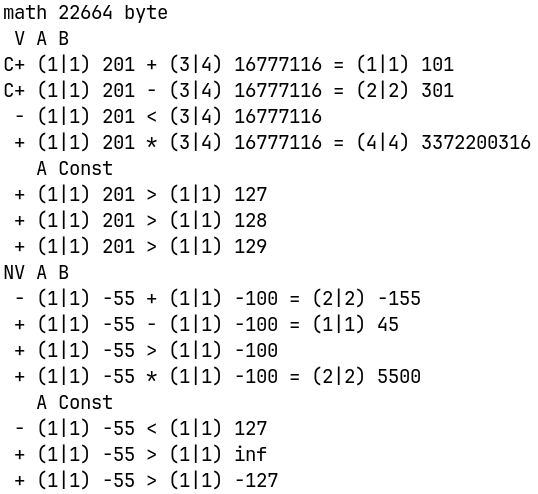
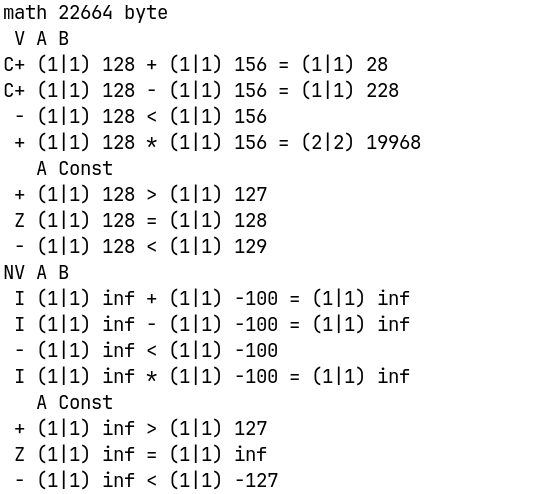
v17.5

diff --git a/math.c b/math.c
@@ -13,26 +13,25 @@ void FInit(anu x, anu y, an r, anu c, an a) { while(x--) *--r = 0; c = (c > y) ?
   while(c--) *r++ = *a++; }
 
 void FSWAP(anu l, an r, an a) { Mat.i = l; Mat.r = r; Mat.a = a; Mat.be = Mat.r + Mat.i;
-  Mat.ae = Mat.a + Mat.i; Mat.t = *Mat.a++; *Mat.r++ = Mat.i ? *Mat.ae--:Mat.t; *Mat.be-- = Mat.t;
-  Mat.i >>= 1; while(Mat.i--) { Mat.t = *Mat.a++; *Mat.r++ = *Mat.ae--; *Mat.be-- = Mat.t; } }
+  Mat.ae = Mat.a + Mat.i; Mat.j = *Mat.a++; *Mat.r++ = Mat.i ? *Mat.ae--:Mat.j; *Mat.be-- = Mat.j;
+  Mat.i >>= 1; while(Mat.i--) { Mat.j = *Mat.a++; *Mat.r++ = *Mat.ae--; *Mat.be-- = Mat.j; } }
 anu FMOV(anu l, an r, an a) { Mat.i = l; Mat.r = r; Mat.a = a; if (Mat.V) {
-    Mat.ae = Mat.a + Mat.i; Mat.na = (Mat.Nim && (*Mat.ae & 128)) ? 255:0; Mat.j = Mat.i;
-    while((Mat.x = *Mat.ae--) == Mat.na && Mat.i && !((*Mat.ae ^ Mat.na) & 128)) Mat.i--;
+    Mat.ae = Mat.a + Mat.i; Mat.nb = (*Mat.ae & 128) ? 255:0; Mat.j = Mat.i;
+    while((Mat.x = *Mat.ae--) == Mat.nb && Mat.i && !((*Mat.ae ^ Mat.nb) & 128)) Mat.i--;
     Mat.t = Mat.i; while(Mat.t-- && !*Mat.ae--) { } if (Mat.i == Mat.j) {
       if (!++Mat.t && (!Mat.x || Mat.x == 128)) { Mat.a += Mat.i; Mat.i = 0; } }
     else Mat.i += (!++Mat.t && Mat.x == 128); }
   Mat.j = Mat.i; Mat.t = Mat.i; if (r < a) do *Mat.r++ = *Mat.a++; while(Mat.j--);
   else { Mat.be = (Mat.r += Mat.i); Mat.ae = Mat.a + Mat.i;
     do *Mat.be-- = *Mat.ae--; while(Mat.j--); }
-  Mat.x = *--Mat.r; Mat.N = (Mat.Nim && (Mat.x & 128)) ? 255:0; while(Mat.i && !*--Mat.r) Mat.i--;
-  Mat.F = (Mat.i | Mat.x) ? (Mat.Nim && !Mat.i && Mat.x == 128) ? 2:0:1; return Mat.t; }
+  Mat.x = *--Mat.r; Mat.nb = (Mat.Nim && (Mat.x & 128)) ? 255:0; while(Mat.i && !*--Mat.r) Mat.i--;
+  Mat.na = (Mat.i | Mat.x) ? (Mat.Nim && !Mat.i && Mat.x == 128) ? 2:0:1; return Mat.t; }
 anu FCOLD(anu f, anu l, an r, an a) { Mat.y = FMOV(l, r, a); Mat.t = ((Mat.x = Mat.y)) ? 2:1;
   while((Mat.x >>= 1)) { Mat.t <<= 1; } Mat.r = r; Mat.e = Mat.r + Mat.y; Mat.x = --Mat.t - Mat.y;
-  Mat.y = Mat.N; if (Mat.F) { Mat.y = *Mat.e; *Mat.e = 0; Mat.y = 0; }
-  while(Mat.x--) { *++Mat.e = Mat.y; } *Mat.e = Mat.F ? Mat.y:*Mat.e;
-  if (f) { Fswap(Mat.t, Mat.r); } return Mat.t; }
+  Mat.y = Mat.nb; if (Mat.na) { Mat.y = *Mat.e; *Mat.e = 0; } while(Mat.x--) { *++Mat.e = Mat.nb; }
+  *Mat.e = Mat.na ? Mat.y:*Mat.e; if (f) { Fswap(Mat.t, Mat.r); } return Mat.t; }
 anu FVI(anu f, an r, anu l, an c) { if (l--) { if (f) { FSWAP(l, r, c); return Fmov(l, r); }
-    else return FMOV(l, r, c); } Mat.F = 2; Mat.N = 255; *r = 128; return 0; }
+    else return FMOV(l, r, c); } Mat.na = 2; Mat.nb = 255; *r = 128; return 0; }
 
 void FADD(an r, an a, anu l, an b) { Mat.N = l; Mat.r = r; Mat.a = a; Mat.b = b; Mat.lb = Mat.N;
   Mat.ae = Mat.a + Mat.l; Mat.na = (((Mat.x = *Mat.ae--) & 128) && Mat.Nim) ? 255:0; Mat.F = Mat.l;
@@ -93,8 +92,8 @@ void FSUB(an r, an a, anu l, an b) { Mat.N = l; Mat.r = r; Mat.a = a; Mat.b = b;
     do *++Mat.ae = Mat.N; while(--Mat.i); return; } Mat.l = Mat.x; }
 
 anu FCMP(an a, anu l, an b) { Mat.k = Mat.C; Mat.t = Mat.l; Mat.C = 0; FSUB((an)Mat.S, a, l, b);
-  if (!Mat.Nim) Mat.N -= Mat.C;
-  else { if (Mat.F == 2) Mat.N = (Mat.F = (Mat.j == 3)) ? 0:(Mat.j == 1) ? Mat.nb:(Mat.j == 2) ? ~Mat.na:~Mat.nb; }
+  if (!Mat.Nim) Mat.N -= Mat.C; else if (Mat.F == 2)
+    Mat.N = (Mat.F = (Mat.j == 3)) ? 0:(Mat.j == 1) ? Mat.nb:(Mat.j == 2) ? ~Mat.na:~Mat.nb;
   Mat.l = Mat.t; Mat.C = Mat.k; return Mat.N; }
 
 void FMUL(an r, an a, anu l, an b) { Mat.N = l; Mat.r = r; Mat.a = a; Mat.b = b;

diff --git a/main.c b/main.c
@@ -12,12 +12,12 @@
 #define m 128
 anu la,lb;
 
-void Num(anu s, an a) { anu ns, t[m], f = Mat.F, n = Mat.N; if (s > 8) { printf(" %d|? ", s + 1); return; }
-  printf("(%d|%d) ", s + 1, (ns = FCOLD(Obe, s, (an)t, a)) + 1); a = (an)t; if (Mat.F == 2) printf("inf ");
-  else { if (Mat.Nim) { if (ns > 3) printf("%ld " , *(int64_t*)a); else if (ns > 1) printf("%d ", *(int32_t*)a);
-    else if (ns) printf("%d ", *(int16_t*)a); else printf("%d ", *(int8_t*)a); }
-  else { if (ns > 3) printf("%lu ", *(uint64_t*)a); else if (ns > 1) printf("%u ", *(uint32_t*)a);
-    else if (ns) printf("%u ", *(uint16_t*)a); else printf("%u ", *(uint8_t*)a); } } Mat.F = f; Mat.N = n; }
+void Num(anu s, an a) { anu ns, t[m]; if (s > 8) { printf(" %d|? ", s + 1); return; }
+  printf("(%d|%d) ", s + 1, (ns = FCOLD(Obe, s, (an)t, a)) + 1); a = (an)t; if (Mat.na == 2) printf("inf "); else {
+    if (Mat.Nim) { if (ns > 3) printf("%ld " , *(int64_t*)a); else if (ns > 1) printf("%d ", *(int32_t*)a);
+      else if (ns) printf("%d ", *(int16_t*)a); else printf("%d ", *(int8_t*)a); }
+    else { if (ns > 3) printf("%lu ", *(uint64_t*)a); else if (ns > 1) printf("%u ", *(uint32_t*)a);
+      else if (ns) printf("%u ", *(uint16_t*)a); else printf("%u ", *(uint8_t*)a); } } }
 void Show(char s) { Flong(la,lb); Mat.C = 0;
   if (s == '+') FAdd(Mat.R, Mat.A); else if (s == '-') FSub(Mat.R, Mat.A); else if (s == '*') FMul(Mat.R, Mat.A);
   else if (s == '/') FDiv(Mat.R, Mat.A, Mat.E); else if (s == '?') FCmp(Mat.A); else FCmpc(Mat.A, 127);
@@ -30,5 +30,5 @@ void Const(void) { an sb; anu l, i = 2; printf("   A Const\n"); Show('c'); sb = 
 void Test(void) { printf("%c%c A B\n", Mat.Nim ? 'N':' ', Mat.V ? 'V':' '); Show('+'); Show('-'); Show('?'); Show('*'); Const(); }
 
 int main(void) { anu v = 1,a[m],b[m],e[m],r[m+m]; Faddr((As)r, (As)e, (As)a, (As)b);
-  Fini(0,v); la = Fbvi(Mat.A, -55); lb = Fvi(Mat.B, -100,255,255); Test();
+  Fini(0,v); la = Fbvi(Mat.A, 128,0); lb = Fvi(Mat.B, -100,255,255); Test();
   Fset(1,v); la = Fmov(la, Mat.A); lb = Fmov(lb, Mat.B); Test(); return 0; }

diff --git a/README.md b/README.md
@@ -17,7 +17,7 @@
 P.s.: Блокировку убрали как только добавил сообщение о ней на главную страницу, длилась минут 20 как я заметил и принял меры чтоб сообщить об этом Вам. Это сообщение останется (20.09.2026 ~16.00 по местному +7) как память, так, что буду стараться вопреки не востребованности в России по данной области дабы остальной народ мог этим воспользоваться. Проанализируйте события с момента как я вернулся в эту сферу (конец января 2026 выложен Products готовый полностью затем занялся Fresh в начале февраля 2026), всё это время обновлялся код и было забавно видеть на open.net новости - даже компании серьёзные их как озарило - так, что у меня нет желания и времени следить за соблюдением GPLv3 из России, если заметите нарушение лицензии, то гарантировано взаимовыгодное сотрудничество.
 
 <div align="center">
-  <h1>Результат запуска v17.4</h1>
+  <h1>Результат запуска v17.5</h1>
   
   <picture>
     <source media="(prefers-color-scheme: dark)" srcset="Plus/psb.jpeg">
